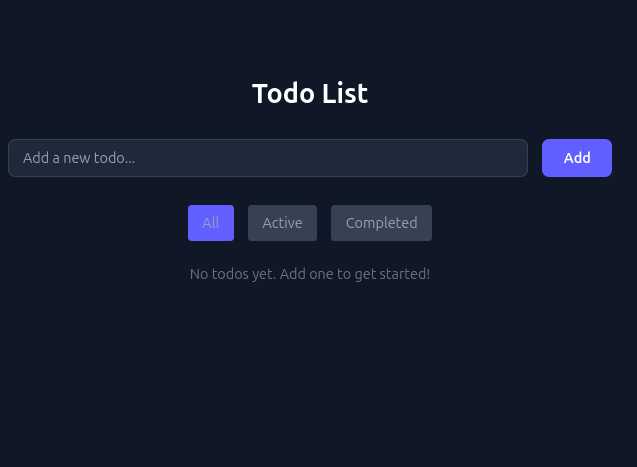
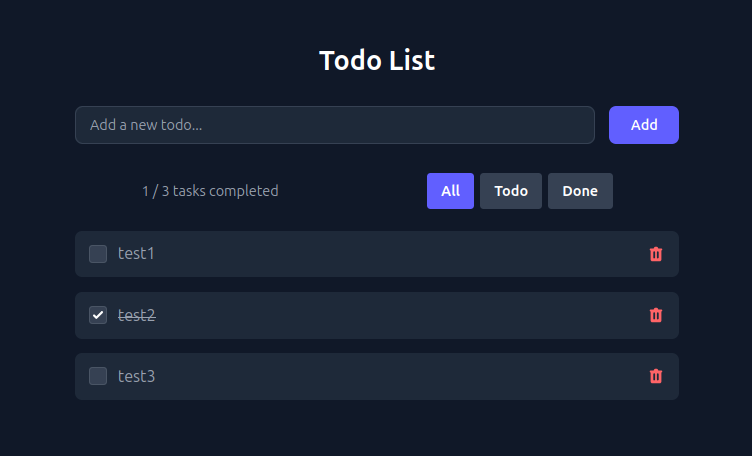
feat: implement task management with add, remove, and toggle functionality; enhance UI with new components

diff --git a/src/lib/components/projects/todo/Todo.svelte b/src/lib/components/projects/todo/Todo.svelte
@@ -1,126 +1,81 @@
 <script lang="ts">
-	let newTodo = '';
-	let todos: { id: number; text: string; completed: boolean }[] = [];
-	let nextId = 1;
-	let activeFilter: 'all' | 'active' | 'completed' = 'all';
+	import { slide } from 'svelte/transition';
+	import type { Filter, Task } from './task-interface';
+	import TasksForm from './Tasks-form.svelte';
+	import TasksList from './Tasks-list.svelte';
 
-	function addTodo() {
-		if (newTodo.trim()) {
-			todos = [...todos, { id: nextId++, text: newTodo.trim(), completed: false }];
-			newTodo = '';
+	let title = 'Todo List';
+	let tasks = $state<Task[]>([]);
+	let currentFilter = $state<Filter>('all');
+
+	let totalDone = $derived(tasks.reduce((total, task) => total + Number(task.done), 0));
+	let filteredTasks = $derived.by(() => {
+		switch (currentFilter) {
+			case 'all': {
+				return tasks;
+			}
+			case 'todo': {
+				return tasks.filter((task) => !task.done);
+			}
+			case 'done': {
+				return tasks.filter((task) => task.done);
+			}
 		}
-	}
-
-	function deleteTodo(id: number) {
-		todos = todos.filter((todo) => todo.id !== id);
-	}
-
-	function toggleTodo(id: number) {
-		todos = todos.map((todo) => (todo.id === id ? { ...todo, completed: !todo.completed } : todo));
-	}
-
-	$: filteredTodos = todos.filter((todo) => {
-		if (activeFilter === 'active') return !todo.completed;
-		if (activeFilter === 'completed') return todo.completed;
-		return true;
 	});
+
+	function addTask(newTask: string) {
+		tasks.push({
+			id: crypto.randomUUID(),
+			title: newTask,
+			done: false
+		});
+	}
+
+	function toggleDone(task: Task) {
+		task.done = !task.done;
+	}
+
+	function removeTask(id: string) {
+		const index = tasks.findIndex((task) => task.id === id);
+		tasks.splice(index, 1);
+	}
 </script>
 
-<section class="body-font min-h-screen bg-gray-900 text-gray-400">
-	<div class="container mx-auto px-5 py-24">
-		<div class="mx-auto max-w-2xl">
-			<h1 class="mb-8 text-center text-3xl font-bold text-white">Todo List</h1>
+{#snippet filterButton(filter: Filter)}
+	<button
+		class="rounded px-4 py-2 font-bold text-white capitalize {currentFilter === filter
+			? 'bg-indigo-500'
+			: 'bg-gray-700'}"
+		onclick={() => (currentFilter = filter)}>{filter}</button
+	>
+{/snippet}
 
+<section class="body-font min-h-screen bg-gray-900 text-gray-400">
+	<div class="container mx-auto px-5 py-10">
+		<div class="mx-auto max-w-2xl">
+			<h1 class="mb-8 text-center text-3xl font-bold text-white">{title}</h1>
 			<!-- Input form -->
-			<form class="mb-8 flex gap-4" on:submit|preventDefault={addTodo}>
-				<input
-					type="text"
-					bind:value={newTodo}
-					placeholder="Add a new todo..."
-					class="w-full rounded-lg border border-gray-700 bg-gray-800 px-4 py-2 text-white placeholder-gray-400 focus:border-indigo-500 focus:ring-2 focus:ring-indigo-900 focus:outline-none"
-				/>
-				<button
-					type="submit"
-					class="rounded-lg bg-indigo-500 px-6 py-2 font-semibold text-white hover:bg-indigo-600 focus:ring-2 focus:ring-indigo-900 focus:outline-none"
-				>
-					Add
-				</button>
-			</form>
+			<TasksForm {addTask} />
 
 			<!-- Filter buttons -->
-			<div class="mb-6 flex justify-center gap-4">
-				<button
-					class="rounded px-4 py-2 {activeFilter === 'all' ? 'bg-indigo-500' : 'bg-gray-700'}"
-					on:click={() => (activeFilter = 'all')}
-				>
-					All
-				</button>
-				<button
-					class="rounded px-4 py-2 {activeFilter === 'active' ? 'bg-indigo-500' : 'bg-gray-700'}"
-					on:click={() => (activeFilter = 'active')}
-				>
-					Active
-				</button>
-				<button
-					class="rounded px-4 py-2 {activeFilter === 'completed' ? 'bg-indigo-500' : 'bg-gray-700'}"
-					on:click={() => (activeFilter = 'completed')}
-				>
-					Completed
-				</button>
-			</div>
-
-			<!-- Todo list -->
-			<div class="space-y-4">
-				{#each filteredTodos as todo (todo.id)}
-					<div
-						class="flex items-center justify-between rounded-lg bg-gray-800 px-4 py-3 transition-all hover:bg-gray-700"
-					>
-						<div class="flex items-center gap-3">
-							<span class="text-sm text-gray-500">#{todo.id}</span>
-							<input
-								type="checkbox"
-								checked={todo.completed}
-								on:change={() => toggleTodo(todo.id)}
-								class="h-5 w-5 rounded border-gray-600 bg-gray-700 text-indigo-500 focus:ring-2 focus:ring-indigo-900"
-							/>
-							<span class="text-lg" class:line-through={todo.completed}>
-								{todo.text}
-							</span>
-						</div>
-						<button
-							on:click={() => deleteTodo(todo.id)}
-							class="text-red-400 hover:text-red-300 focus:outline-none"
-							aria-label="Delete todo"
-						>
-							<svg
-								xmlns="http://www.w3.org/2000/svg"
-								class="h-5 w-5"
-								viewBox="0 0 20 20"
-								fill="currentColor"
-							>
-								<path
-									fill-rule="evenodd"
-									d="M9 2a1 1 0 00-.894.553L7.382 4H4a1 1 0 000 2v10a2 2 0 002 2h8a2 2 0 002-2V6a1 1 0 100-2h-3.382l-.724-1.447A1 1 0 0011 2H9zM7 8a1 1 0 012 0v6a1 1 0 11-2 0V8zm5-1a1 1 0 00-1 1v6a1 1 0 102 0V8a1 1 0 00-1-1z"
-									clip-rule="evenodd"
-								/>
-							</svg>
-						</button>
-					</div>
-				{/each}
-			</div>
-
-			<!-- Empty state -->
-			{#if filteredTodos.length === 0}
+			{#if !tasks.length}
+				<!-- Empty state -->
 				<div class="text-center text-gray-500">
-					<p>
-						{#if todos.length === 0}
-							No todos yet. Add one to get started!
-						{:else}
-							No {activeFilter} todos found.
-						{/if}
-					</p>
+					<p>Add a task to get started...</p>
+				</div>
+			{:else}
+				<div class="mb-6 flex items-center justify-around gap-4" transition:slide>
+					<p>{totalDone} / {tasks.length} tasks completed</p>
+					<div class="flex justify-between gap-1.5">
+						{@render filterButton('all')}
+						{@render filterButton('todo')}
+						{@render filterButton('done')}
+					</div>
 				</div>
 			{/if}
+
+			<!-- Todo list -->
+			<TasksList tasks={filteredTasks} {toggleDone} {removeTask} />
 		</div>
 	</div>
 </section>

diff --git a/src/lib/components/shared/Contact.svelte b/src/lib/components/shared/Contact.svelte
@@ -51,13 +51,14 @@
 					>
 				</div>
 				<div class="mt-8 w-full border-t border-gray-800 p-2 pt-8 text-center">
-					<a class="text-indigo-400">example@email.com</a>
+					<a class="text-indigo-400" href="/">example@email.com</a>
 					<p class="my-5 leading-normal">
 						49 Smith St.
 						<br />Saint Cloud, MN 56301
 					</p>
 					<span class="inline-flex">
-						<a class="text-gray-500">
+						<!-- svelte-ignore a11y_consider_explicit_label -->
+						<a href="/" class="text-gray-500">
 							<svg
 								fill="currentColor"
 								stroke-linecap="round"
@@ -69,7 +70,8 @@
 								<path d="M18 2h-3a5 5 0 00-5 5v3H7v4h3v8h4v-8h3l1-4h-4V7a1 1 0 011-1h3z"></path>
 							</svg>
 						</a>
-						<a class="ml-4 text-gray-500">
+						<!-- svelte-ignore a11y_consider_explicit_label -->
+						<a href="/" class="ml-4 text-gray-500">
 							<svg
 								fill="currentColor"
 								stroke-linecap="round"
@@ -83,7 +85,8 @@
 								></path>
 							</svg>
 						</a>
-						<a class="ml-4 text-gray-500">
+						<!-- svelte-ignore a11y_consider_explicit_label -->
+						<a href="/" class="ml-4 text-gray-500">
 							<svg
 								fill="none"
 								stroke="currentColor"
@@ -97,7 +100,8 @@
 								<path d="M16 11.37A4 4 0 1112.63 8 4 4 0 0116 11.37zm1.5-4.87h.01"></path>
 							</svg>
 						</a>
-						<a class="ml-4 text-gray-500">
+						<!-- svelte-ignore a11y_consider_explicit_label -->
+						<a href="/" class="ml-4 text-gray-500">
 							<svg
 								fill="currentColor"
 								stroke-linecap="round"

diff --git a/src/lib/components/projects/todo/Tasks-list.svelte b/src/lib/components/projects/todo/Tasks-list.svelte
@@ -1,0 +1,51 @@
+<script lang="ts">
+	import { fade } from 'svelte/transition';
+	import type { Task } from './task-interface';
+
+	let {
+		tasks,
+		toggleDone,
+		removeTask
+	}: {
+		tasks: Task[];
+		toggleDone: (task: Task) => void;
+		removeTask: (id: string) => void;
+	} = $props();
+</script>
+
+<article class="space-y-4">
+	{#each tasks as task}
+		<div
+			class="flex items-center justify-between rounded-lg bg-gray-800 px-4 py-3 hover:bg-gray-700"
+			transition:fade
+		>
+			<div class="flex items-center gap-3">
+				<input
+					type="checkbox"
+					class="h-5 w-5 cursor-pointer rounded border-gray-600 bg-gray-700 text-indigo-500 focus:ring-2 focus:ring-indigo-900 done:{task.done}"
+					checked={task.done}
+					onchange={() => toggleDone(task)}
+				/>
+				<span class="text-lg" class:line-through={task.done}>{task.title}</span>
+			</div>
+			<button
+				class="cursor-pointer text-red-400 hover:text-red-300 focus:outline-none"
+				aria-label="Delete todo"
+				onclick={() => removeTask(task.id)}
+			>
+				<svg
+					xmlns="http://www.w3.org/2000/svg"
+					class="h-5 w-5"
+					viewBox="0 0 20 20"
+					fill="currentColor"
+				>
+					<path
+						fill-rule="evenodd"
+						d="M9 2a1 1 0 00-.894.553L7.382 4H4a1 1 0 000 2v10a2 2 0 002 2h8a2 2 0 002-2V6a1 1 0 100-2h-3.382l-.724-1.447A1 1 0 0011 2H9zM7 8a1 1 0 012 0v6a1 1 0 11-2 0V8zm5-1a1 1 0 00-1 1v6a1 1 0 102 0V8a1 1 0 00-1-1z"
+						clip-rule="evenodd"
+					/>
+				</svg>
+			</button>
+		</div>
+	{/each}
+</article>

diff --git a/src/lib/components/projects/todo/Tasks-form.svelte b/src/lib/components/projects/todo/Tasks-form.svelte
@@ -1,0 +1,29 @@
+<script lang="ts">
+	let newTask = $state('');
+	let {
+		addTask
+	}: {
+		addTask: (newTask: string) => void;
+	} = $props();
+
+	function OnTaskSubmit(e: SubmitEvent) {
+		e.preventDefault();
+		addTask(newTask);
+		newTask = '';
+	}
+</script>
+
+<form class="mb-8 flex gap-4" onsubmit={OnTaskSubmit}>
+	<input
+		type="text"
+		placeholder="Add a new todo..."
+		class="w-full rounded-lg border border-gray-700 bg-gray-800 px-4 py-2 text-white placeholder-gray-400 focus:border-indigo-500 focus:ring-2 focus:ring-indigo-900 focus:outline-none"
+		bind:value={newTask}
+	/>
+	<button
+		type="submit"
+		class="cursor-pointer rounded-lg bg-indigo-500 px-6 py-2 font-semibold text-white hover:bg-indigo-600 focus:ring-2 focus:ring-indigo-900 focus:outline-none"
+	>
+		Add
+	</button>
+</form>

diff --git a/src/lib/components/pages/ProjectCard.svelte b/src/lib/components/pages/ProjectCard.svelte
@@ -6,7 +6,7 @@
 
 <a
 	href={project.route}
-	class="group relative block h-80 w-64 overflow-hidden rounded-lg border border-gray-700 bg-gray-900/60 px-4 py-2 shadow-md backdrop-blur-sm transition-transform hover:-translate-y-1 hover:shadow-lg"
+	class="group relative block h-80 w-64 overflow-hidden rounded-lg border border-gray-700 bg-gray-900/60 px-4 py-2 shadow-md backdrop-blur-sm transition-transform hover:shadow-lg"
 >
 	<div class="relative mb-2 h-40 w-full overflow-hidden rounded-md">
 		<img

diff --git a/src/lib/components/shared/Breadcrumbs.svelte b/src/lib/components/shared/Breadcrumbs.svelte
@@ -20,7 +20,7 @@
 		});
 </script>
 
-<nav aria-label="Breadcrumb" class="container mx-auto bg-gray-900 px-4 py-2">
+<nav aria-label="Breadcrumb" class="container mx-auto bg-gray-900 px-4 py-3.5">
 	<ol class="flex items-center space-x-2 text-sm">
 		<li>
 			<a href="/" class="text-indigo-400 transition-colors duration-200 hover:text-indigo-300">

diff --git a/src/lib/components/projects/todo/task-interface.ts b/src/lib/components/projects/todo/task-interface.ts
@@ -1,0 +1,7 @@
+export type Task = {
+	id: string;
+	title: string;
+	done: boolean;
+};
+
+export type Filter = 'all' | 'todo' | 'done';
